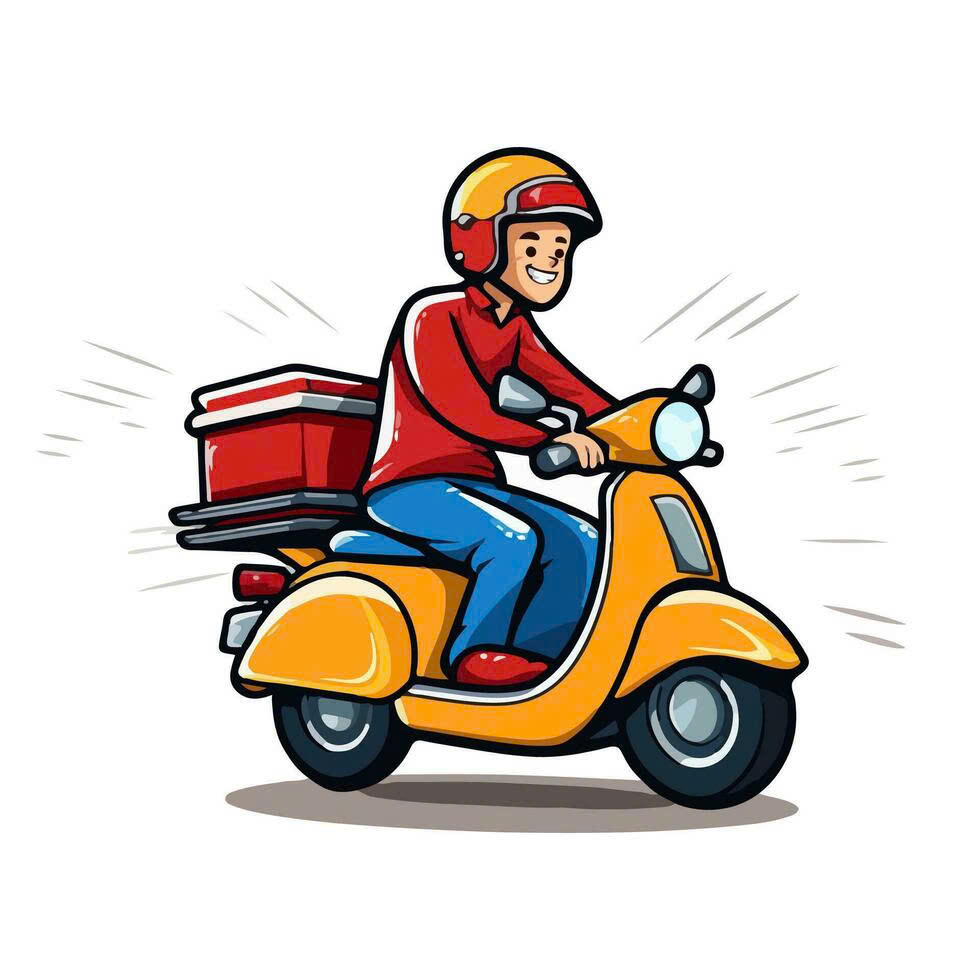
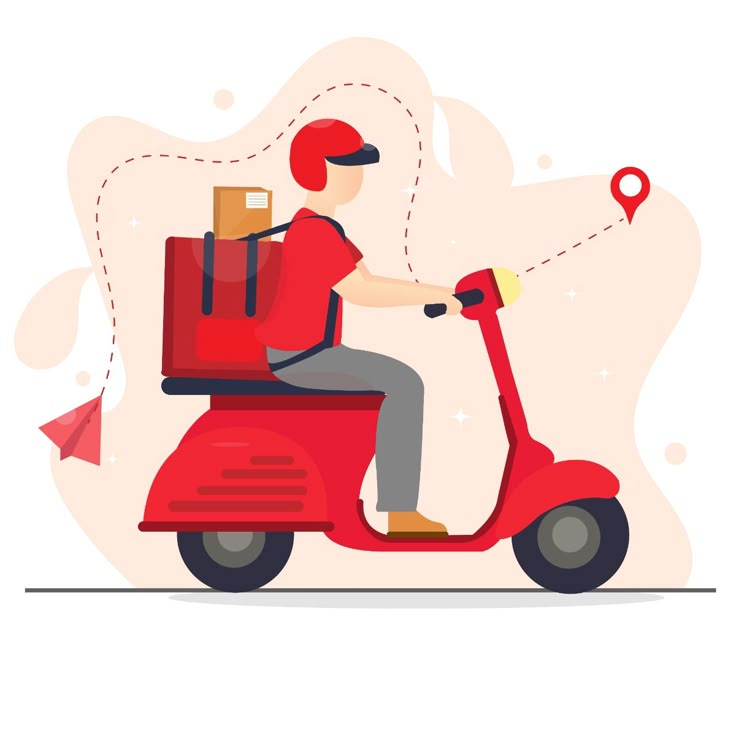
first_commit

diff --git a/lib/pages/payment/address_page.dart b/lib/pages/payment/address_page.dart
@@ -2,6 +2,7 @@ import 'package:flutter/material.dart';
 import 'package:thuc_tap_1/components/app_bar/td_app_bar.dart';
 import 'package:thuc_tap_1/pages/payment/payment_page.dart';
 import 'package:thuc_tap_1/pages/payment/widget/address_item.dart';
+import 'package:thuc_tap_1/services/google_services.dart';
 import '../../components/button/app_elevated_button.dart';
 import '../../components/text_field/td_text_field.dart';
 import '../../consts.dart';
@@ -18,18 +19,18 @@ class AddressPage extends StatefulWidget {
 }
 
 class _AddressPageState extends State<AddressPage> {
-  List<AddressModel> tasks = [];
-  List<AddressModel> searchList = [];
+  List<AddressModel> _addressSuggestions = [];
 
-  String selectedAddress = '';
+  Future<void> _searchAddress(String query) async {
+    final suggestions = await GooglePlaceService().autocomplete(query);
+    setState(() {
+      _addressSuggestions = suggestions;
+    });
+  }
 
-// void _search(String value) {
-//     value = value.toLowerCase();
-//     searchList = tasks
-//         .where((e) => (e.description ?? '').toLowerCase().contains(value))
-//         .toList();
-//     setState(() {});
-//   }
+  void _onAddressSelected(AddressModel address) {
+    print(address);
+  }
 
   @override
   Widget build(BuildContext context) {
@@ -44,90 +45,60 @@ class _AddressPageState extends State<AddressPage> {
             '${AppConstant.endPointBaseImage}/${SharedPrefs.user?.avatar ?? ''}',
       ),
       body: SingleChildScrollView(
-        child: Padding(
-          padding: const EdgeInsets.symmetric(horizontal: 20.0)
-              .copyWith(top: 26.0, bottom: 60.0),
-          child: Column(
-            children: [
-              Autocomplete<AddressModel>(
-                optionsBuilder: (TextEditingValue textEditingValue) {
-                  if (textEditingValue.text.isEmpty) {
-                    return const Iterable<AddressModel>.empty();
-                  }
-                  return addresses.where((address) =>
-                      address.titleFirst!
-                          .toLowerCase()
-                          .contains(textEditingValue.text.toLowerCase()) ||
-                      address.description!
-                          .toLowerCase()
-                          .contains(textEditingValue.text.toLowerCase()));
-                },
-                displayStringForOption: (AddressModel address) =>
-                    '${address.titleFirst} - ${address.description}',
-                onSelected: (AddressModel selection) {
-                  for (var address in addresses) {
-                    address.isSelected = false;
-                  }
-                  selection.isSelected = true;
-                  debugPrint('Selected: ${selection.titleFirst}');
-                },
-                fieldViewBuilder:
-                    (context, controller, focusNode, onEditingComplete) {
-                  return TdTextField(
-                    controller: controller,
-                    focusNode: focusNode,
-                    textInputAction: TextInputAction.done,
-                    prefixIcon:
-                        const Icon(Icons.search, color: AppColor.orange),
-                    hintText: 'Search Address',
-                  );
-                },
-              ),
-              const SizedBox(height: 20),
-              ListView.separated(
-                physics: const NeverScrollableScrollPhysics(),
-                shrinkWrap: true,
-                padding: EdgeInsets.zero,
-                itemBuilder: (context, index) {
-                  final address = addresses[index];
-                  return AddressItem(
-                    address,
-                    onTap: () {
-                      for (var element in addresses) {
-                        element.isSelected = false;
+        padding: const EdgeInsets.symmetric(horizontal: 20.0)
+            .copyWith(top: 26.0, bottom: 60.0),
+        child: Column(
+          children: [
+            TdTextField(
+              textInputAction: TextInputAction.done,
+              prefixIcon: const Icon(Icons.search, color: AppColor.orange),
+              hintText: 'Search Address',
+              onChanged: _searchAddress,
+            ),
+            const SizedBox(height: 20),
+            ListView.separated(
+              physics: const NeverScrollableScrollPhysics(),
+              shrinkWrap: true,
+              itemBuilder: (context, index) {
+                final address = _addressSuggestions[index];
+                return AddressItem(
+                  address,
+                  onTap: () {
+                    setState(() {
+                      for (var e in _addressSuggestions) {
+                        e.isSelected = false;
                       }
                       address.isSelected = true;
-                      setState(() {});
-                    },
-                  );
-                },
-                separatorBuilder: (context, index) =>
-                    const SizedBox(height: 30.0),
-                itemCount: addresses.length,
-              ),
-              const SizedBox(height: 46.0),
-              Row(
-                mainAxisAlignment: MainAxisAlignment.center,
-                children: [
-                  AppElevatedButton.outline(
-                    onPressed: () {},
-                    icon: const Icon(Icons.add, size: 20.0, color: Colors.red),
-                    text: 'Add New Address',
-                    height: 42.0,
-                    padding: const EdgeInsets.only(left: 16.0, right: 20.0),
-                  ),
-                ],
-              ),
-              const SizedBox(height: 72.0),
-              AppElevatedButton(
-                onPressed: () => Navigator.of(context).pushAndRemoveUntil(
-                  MaterialPageRoute(builder: (context) => const PaymentPage()),
-                  (Route<dynamic> route) => false,
+                      _onAddressSelected(address);
+                    });
+                  },
+                );
+              },
+              separatorBuilder: (_, __) => const SizedBox(height: 30.0),
+              itemCount: _addressSuggestions.length,
+            ),
+            const SizedBox(height: 46.0),
+            Row(
+              mainAxisAlignment: MainAxisAlignment.center,
+              children: [
+                AppElevatedButton.outline(
+                  onPressed: () {},
+                  icon: const Icon(Icons.add, size: 20.0, color: Colors.red),
+                  text: 'Add New Address',
+                  height: 42.0,
+                  padding: const EdgeInsets.only(left: 16.0, right: 20.0),
                 ),
-                text: 'Next',
+              ],
+            ),
+            const SizedBox(height: 72.0),
+            AppElevatedButton(
+              onPressed: () => Navigator.of(context).pushAndRemoveUntil(
+                MaterialPageRoute(builder: (context) => const PaymentPage()),
+                (Route<dynamic> route) => false,
               ),
-            ],
-          ),
+              text: 'Next',
+            ),
+          ],
         ),
       ),
     );

diff --git a/lib/models/address_model.dart b/lib/models/address_model.dart
@@ -1,58 +1,36 @@
-import '../utils/util.dart';
-
 class AddressModel {
-  String? id;
-  String? titleFirst;
-  String? titleSecond;
-  String? description;
-  bool? isSelected;
+  final String? titleFirst;
+  final String? titleSecond;
+  final String? description;
+  late bool? isSelected;
 
-  AddressModel() {
-    id = Util.getID();
+  // Constructor
+  AddressModel({
+    this.titleFirst,
+    this.titleSecond,
+    this.description,
+    this.isSelected,
+  });
+
+  // Factory constructor để tạo đối tượng từ JSON
+  factory AddressModel.fromJson(Map<String, dynamic> json) {
+    return AddressModel(
+      titleFirst: json['structured_formatting'] != null
+          ? json['structured_formatting']['main_text']
+          : null,
+      titleSecond: json['structured_formatting'] != null
+          ? json['structured_formatting']['secondary_text']
+          : null,
+      description: json['description'],
+    );
+  }
+
+  // Hàm chuyển đối tượng thành JSON nếu cần
+  Map<String, dynamic> toJson() {
+    return {
+      'titleFirst': titleFirst,
+      'titleSecond': titleSecond,
+      'description': description,
+    };
   }
 }
-
-List<AddressModel> addresses = [
-  AddressModel()
-    ..titleFirst = 'My Home Address'
-    ..titleSecond = 'Home'
-    ..description =
-        'K814A/58, Trần Cao Vân, Đà Nẵng, 50307, Việt Nam'
-    ..isSelected = true,
-  AddressModel()
-    ..titleFirst = 'My Office Address'
-    ..titleSecond = 'Office'
-    ..description =
-        '275B Núi Thành, Hoà Cường Bắc, Hải Châu, Đà Nẵng 550000, Việt Nam'
-    ..isSelected = false,
-  AddressModel()
-    ..titleFirst = 'My Company Address'
-    ..titleSecond = 'Office'
-    ..description =
-        '62 Xô Viết Nghệ Tĩnh, Hoà Cường Bắc, Hải Châu, Đà Nẵng 550000, Việt Nam'
-    ..isSelected = false,
-    AddressModel()
-    ..titleFirst = 'My Office Address'
-    ..titleSecond = 'Office'
-    ..description =
-        '100 Tôn Đức Thắng , Liên Chiểu, Hòa Khánh, Đà Nẵng 550000, Việt Nam'
-    ..isSelected = false,
-    AddressModel()
-    ..titleFirst = 'My Company 2 Address'
-    ..titleSecond = 'Office'
-    ..description =
-        '150 CMTT8, Cẩm Lệ, Hòa Vang, Đà Nẵng 550000, Việt Nam'
-    ..isSelected = false,
-    AddressModel()
-    ..titleFirst = 'My Office 2 Address'
-    ..titleSecond = 'Office'
-    ..description =
-        '10 Nguyễn Tri Phương, Thanh Khê, Đà Nẵng 550000, Việt Nam'
-    ..isSelected = false,
-    AddressModel()
-    ..titleFirst = 'My Office Address'
-    ..titleSecond = 'Office'
-    ..description =
-        '500 Điện Biên Phủ, Thanh Khê, Đà Nẵng 550000, Việt Nam'
-    ..isSelected = false,
-];

diff --git a/lib/services/google_services.dart b/lib/services/google_services.dart
@@ -1,0 +1,37 @@
+import 'package:dio/dio.dart';
+import 'package:thuc_tap_1/models/address_model.dart';
+
+class GooglePlaceService {
+  final Dio _dio = Dio();
+  final String apiKey = 'AIzaSyAMY5NFtMaQD0Mf4RKLBLakwo1Z6jMCxTw';
+
+  Future<List<AddressModel>> autocomplete(String input) async {
+    final url = 'https://maps.googleapis.com/maps/api/place/autocomplete/json';
+
+    try {
+      final response = await _dio.get(url, queryParameters: {
+        'input': input,
+        'types': 'address', // chỉ tìm địa chỉ
+        'components': 'country:vn', // chỉ ở Việt Nam
+        'key': apiKey,
+      });
+
+      if (response.statusCode == 200) {
+        final predictions = response.data['predictions'] as List;
+        return predictions.map((item) {
+          return AddressModel(
+            titleFirst: item['structured_formatting']['main_text'],
+            titleSecond: item['structured_formatting']['secondary_text'],
+            description: item['description'],
+          );
+        }).toList();
+      } else {
+        print('Lỗi khi gọi API: ${response.statusMessage}');
+        return [];
+      }
+    } catch (e) {
+      print('Lỗi kết nối: $e');
+      return [];
+    }
+  }
+}

diff --git a/lib/pages/onboarding/onboarding_page.dart b/lib/pages/onboarding/onboarding_page.dart
@@ -32,6 +32,7 @@ class _OnboardingPageState extends State<OnboardingPage> {
   Widget build(BuildContext context) {
     return Scaffold(
       body: SingleChildScrollView(
+
         child: Padding(
           padding: EdgeInsets.only(
               top: MediaQuery.of(context).padding.top + 38.0, bottom: 16.0),
@@ -93,7 +94,7 @@ class _OnboardingPageState extends State<OnboardingPage> {
                       height: 10.0,
                       decoration: BoxDecoration(
                           color:
-                              index == currentIndex ? Colors.red : Colors.grey,
+                              index == currentIndex ? Colors.red : Colors.black,
                           borderRadius: BorderRadius.circular(20.0)),
                     ),
                   ),

diff --git a/lib/components/text_field/td_text_field.dart b/lib/components/text_field/td_text_field.dart
@@ -57,6 +57,7 @@ class TdTextField extends StatelessWidget {
           textInputAction: textInputAction,
           validator: validator,
           readOnly: readOnly,
+          onChanged: onChanged,
           autovalidateMode:
               AutovalidateMode.onUserInteraction, // validate lien tuc
           decoration: InputDecoration(

diff --git a/lib/gen/assets.gen.dart b/lib/gen/assets.gen.dart
@@ -44,7 +44,6 @@ class $AssetsImagesGen {
 
   /// File path: assets/images/logo_1.png
   AssetGenImage get logo1 => const AssetGenImage('assets/images/logo_1.png');
-
   /// File path: assets/images/logo_2.png
   AssetGenImage get logo2 => const AssetGenImage('assets/images/logo_2.png');
 
